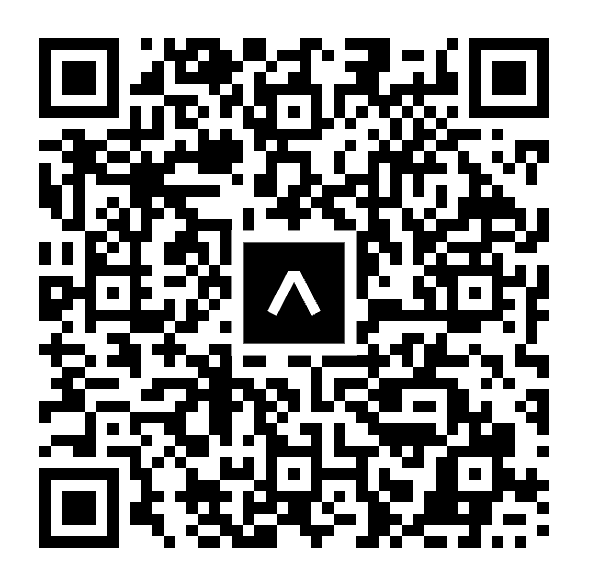
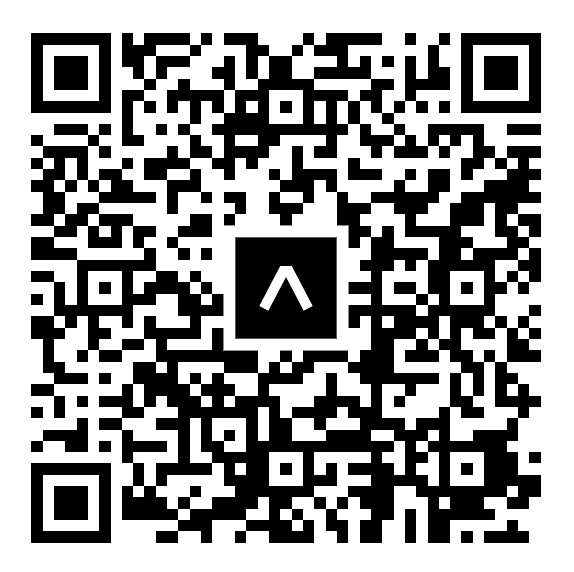
update: readme with new expo qrs and links

diff --git a/README.md b/README.md
@@ -16,11 +16,11 @@ Or, open this link on your device:
 
 1. iOs:
   ```sh
-  exp://u.expo.dev/update/5e867376-a375-41a6-98d2-052788da67da
+  exp://u.expo.dev/update/e900bcde-0eba-4e2f-b897-6a564cd89c7f
   ```
 
 2. Android:
   ```sh
-  exp://u.expo.dev/update/92eaaaf9-dd3e-4006-9ed6-6743cf939c24
+  exp://u.expo.dev/update/2116485b-bb28-4706-9eca-5ff6c7da86d2
   ```
 
